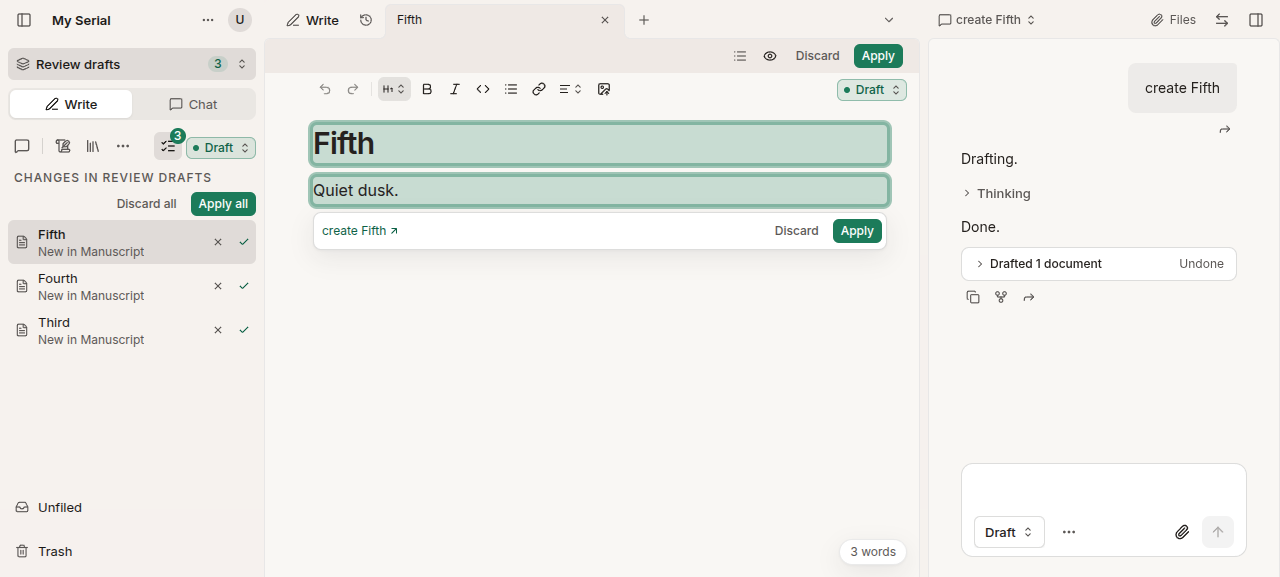
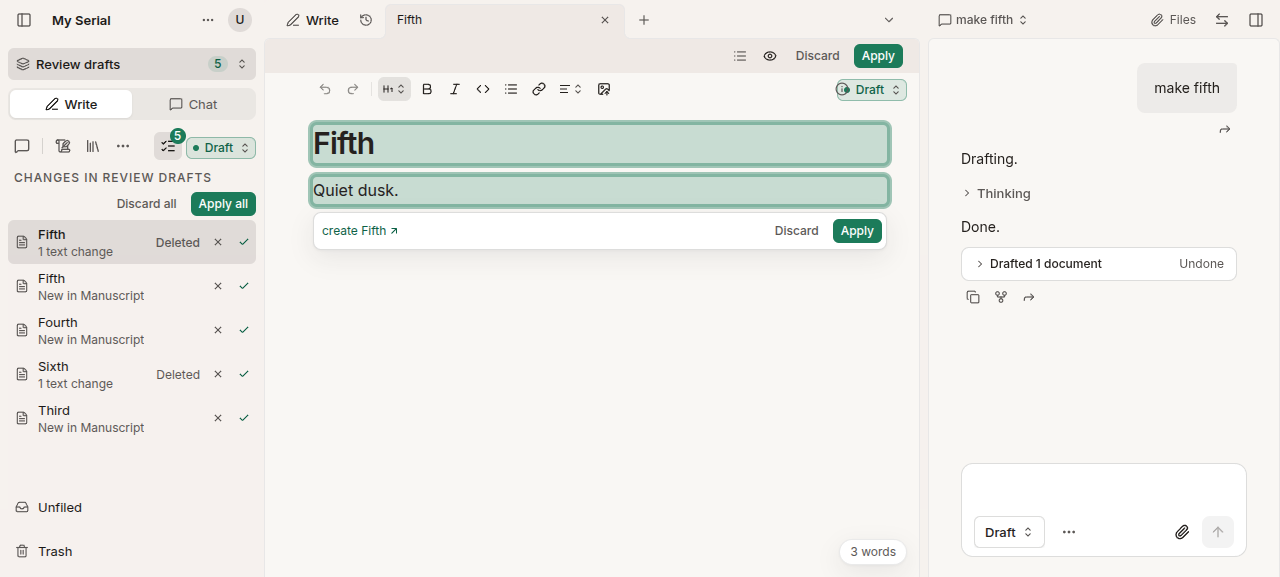
Compare empty documents one way when restoring a Discard, and finish a left-out draft's Un-Apply
editedSince read a base holding one empty paragraph against an empty Live as an edit; it now reads an empty document as no blocks, as blocksEqual does, and the Trash guard is gone. A draft that Restore leaves out now replays its waiting Un-Applies, so its Apply records stop claiming an Apply that was taken back.

diff --git a/apps/server/server/domains/collab/adapters/drizzle-reopen-drafts.ts b/apps/server/server/domains/collab/adapters/drizzle-reopen-drafts.ts
@@ -31,9 +31,14 @@ import {
 import type { UpdateJournal } from "@meridian/agent-edit/integration";
 import type { BranchId, CommandId, DocumentId, DraftOwner } from "@meridian/contracts";
 import type { Database } from "@meridian/database";
-import { applyCommandEffects, documentDrafts, treeNodes } from "@meridian/database/schema";
-import { buildDocumentSchema, PROSEMIRROR_FRAGMENT_NAME } from "@meridian/prosemirror-schema";
+import { applyCommandEffects, documentDrafts } from "@meridian/database/schema";
+import {
+  buildDocumentSchema,
+  isEmptyDocument,
+  PROSEMIRROR_FRAGMENT_NAME,
+} from "@meridian/prosemirror-schema";
 import { and, asc, eq, inArray, isNotNull, ne, sql } from "drizzle-orm";
+import type { Node as PMNode } from "prosemirror-model";
 import * as Y from "yjs";
 import { currentDrizzleDb, deferUntilDrizzleCommit } from "../../../shared/drizzle-transaction.js";
 import type { TreeListStore } from "../../context/ports/tree-list-store.js";
@@ -169,12 +174,25 @@ export function createReopenDrafts(
         } else drafts.push(draft);
       }
       // A left-out draft stays closed under its Discard, which the purge still reaches, and leaves
-      // the entry: Restore answered for it.
-      if (leftOut.length > 0)
+      // the entry: Restore answered for it. Its waiting Un-Applies still finish, so its base stops
+      // holding their text and its Apply records stop claiming an Apply that was taken back; an
+      // append needs an active draft, so it is active for the replay inside this transaction.
+      if (leftOut.length > 0) {
+        const closed = await tx
+          .select({ id: documentDrafts.id, closedBy: documentDrafts.closedBy })
+          .from(documentDrafts)
+          .where(inArray(documentDrafts.id, leftOutIds));
         await tx
           .update(documentDrafts)
-          .set({ closedCause: "left_out" })
+          .set({ status: "active", closedCause: null, closedBy: null })
           .where(inArray(documentDrafts.id, leftOutIds));
+        await replay(leftOutIds);
+        for (const { id, closedBy } of closed)
+          await tx
+            .update(documentDrafts)
+            .set({ status: "closed", closedCause: "left_out", closedBy })
+            .where(eq(documentDrafts.id, id));
+      }
       let swapped = 0;
       for (const draft of drafts) {
         const [newer] = await tx
@@ -224,7 +242,6 @@ export function createReopenDrafts(
 
   /**
    * How many changes of the closed draft Live's text has since overtaken (all of them or none),
-   * for a document that stands in Live:
    * Live edited the text the draft changed, or wrote a pure insertion at its edge, since the base the
    * draft last saw (a pull merges only into an open draft, so that base is stale). Token ranges of
    * the uncleaned diffs, which stay exact on a long paragraph, over the same base tokens, so they
@@ -235,14 +252,6 @@ export function createReopenDrafts(
    * draft reopens, while the room leaves it out because its Yjs Undo would double the text.
    */
   async function editedSince(draft: { draftId: string; documentId: string }): Promise<number> {
-    // Nobody types into a document that is in Trash or not in Live yet, so its text holds no
-    // edit to conflict with. What Live holds there is the Un-Apply's own reversal or a delete's
-    // aftermath, and it reads as an edit only because it left the base's empty block behind.
-    const [node] = await currentDrizzleDb(db)
-      .select({ trashRecord: treeNodes.trashRecord })
-      .from(treeNodes)
-      .where(eq(treeNodes.id, draft.documentId));
-    if (!node || node.trashRecord !== null) return 0;
     // The base the draft reopens with: its waiting Un-Applies replayed on a copy.
     const doc = new Y.Doc({ gc: false });
     Y.applyUpdate(
@@ -251,13 +260,18 @@ export function createReopenDrafts(
     );
     const waiting = await waitingReversals(draft.draftId);
     if (waiting.length > 0) reverseBaseHalf(doc, waiting);
-    const baseBlocks = readBlocks(doc.getXmlFragment(REVIEW_BASE_FRAGMENT), schema);
+    // An empty document is no blocks, as `blocksEqual` reads it: the Un-Apply of a create leaves
+    // Live with none while the base keeps its empty paragraph, and nobody edited that.
+    const emptyAsNone = (blocks: PMNode[]) => (isEmptyDocument(blocks) ? [] : blocks);
+    const baseBlocks = emptyAsNone(readBlocks(doc.getXmlFragment(REVIEW_BASE_FRAGMENT), schema));
     const draftBlocks = readBlocks(doc.getXmlFragment(PROSEMIRROR_FRAGMENT_NAME), schema);
     doc.destroy();
     const snapshot = await deps.live.read(draft.documentId as DocumentId);
     const live = storedDocument(snapshot);
     try {
-      const liveBlocks = readBlocks(live.getXmlFragment(PROSEMIRROR_FRAGMENT_NAME), schema);
+      const liveBlocks = emptyAsNone(
+        readBlocks(live.getXmlFragment(PROSEMIRROR_FRAGMENT_NAME), schema),
+      );
       const changed = diffBlocks(baseBlocks, draftBlocks);
       const edits = diffBlocks(baseBlocks, liveBlocks, { cleanup: false });
       // A hunk from a spent diff budget only bounds its edit: it is no evidence of overlap, on

diff --git a/apps/server/server/domains/collab/.context/apply.md b/apps/server/server/domains/collab/.context/apply.md
@@ -233,9 +233,7 @@ clock; a restore that brings nothing back is `done` with `restored: 0` and says 
 named this command), `left_out purged` (no command of kind `discard`, `undo_discard` or `unapply`
 is stored under the id: the day-30 purge took it, or it never was; or what the entry held was
 purged), with `leftOut` counting purged nodes beside a partial restore. A restore reopens a draft only if
-Live's text has not overtaken it. A document that is in Trash or not in Live has no writer typing into it,
-so its draft always reopens: after the Un-Apply of a create, Live holds no blocks while the base holds an empty one, and
-comparing them would read as an edit. For a document in Live, `reopen` with `leaveOutEdited` compares, on the base the draft reopens with
+Live's text has not overtaken it: `reopen` with `leaveOutEdited` reads an empty document as no blocks (as `blocksEqual` does: after the Un-Apply of a create, Live holds none while the base keeps an empty paragraph, and nobody edited that) and compares, on the base the draft reopens with
 (its waiting Un-Applies replayed on a copy, since the check runs before the draft is open), the token ranges
 Live changed since that base with the ranges the draft changed, both uncleaned (a long paragraph's
 edits stay small hunks, `boundedDiff`, up to 1,000 edit operations; past that its hunks are `approx` and
